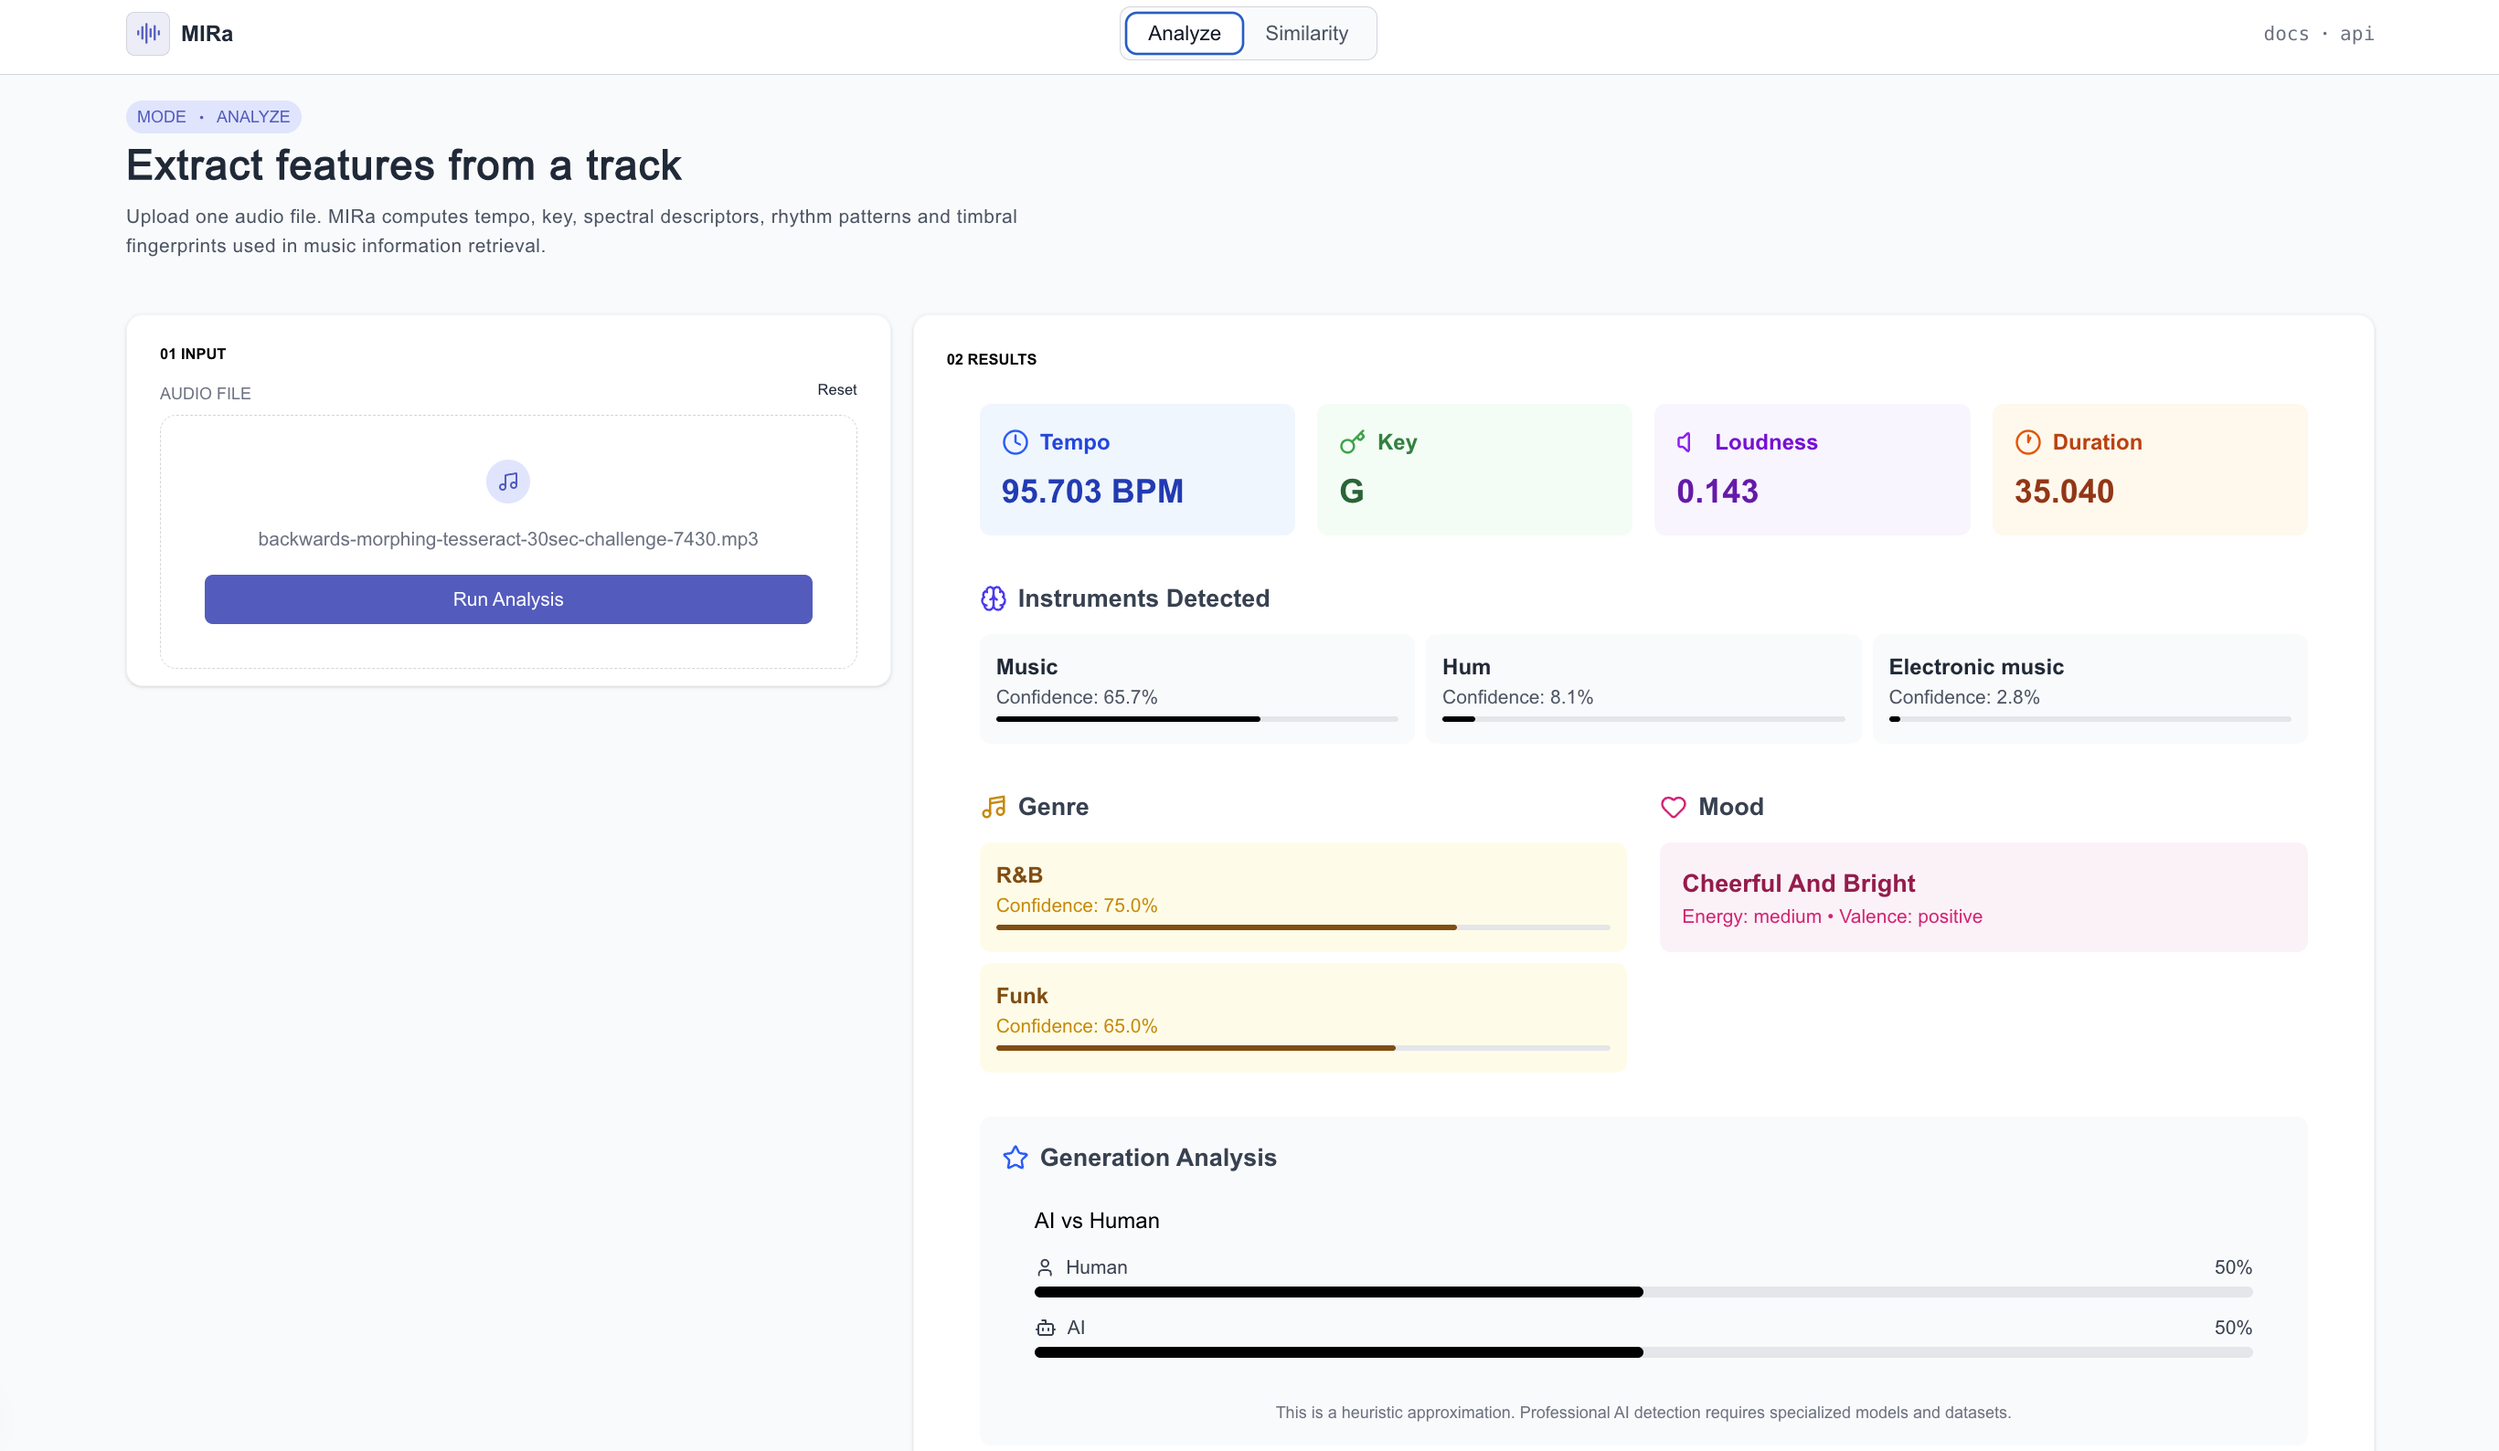
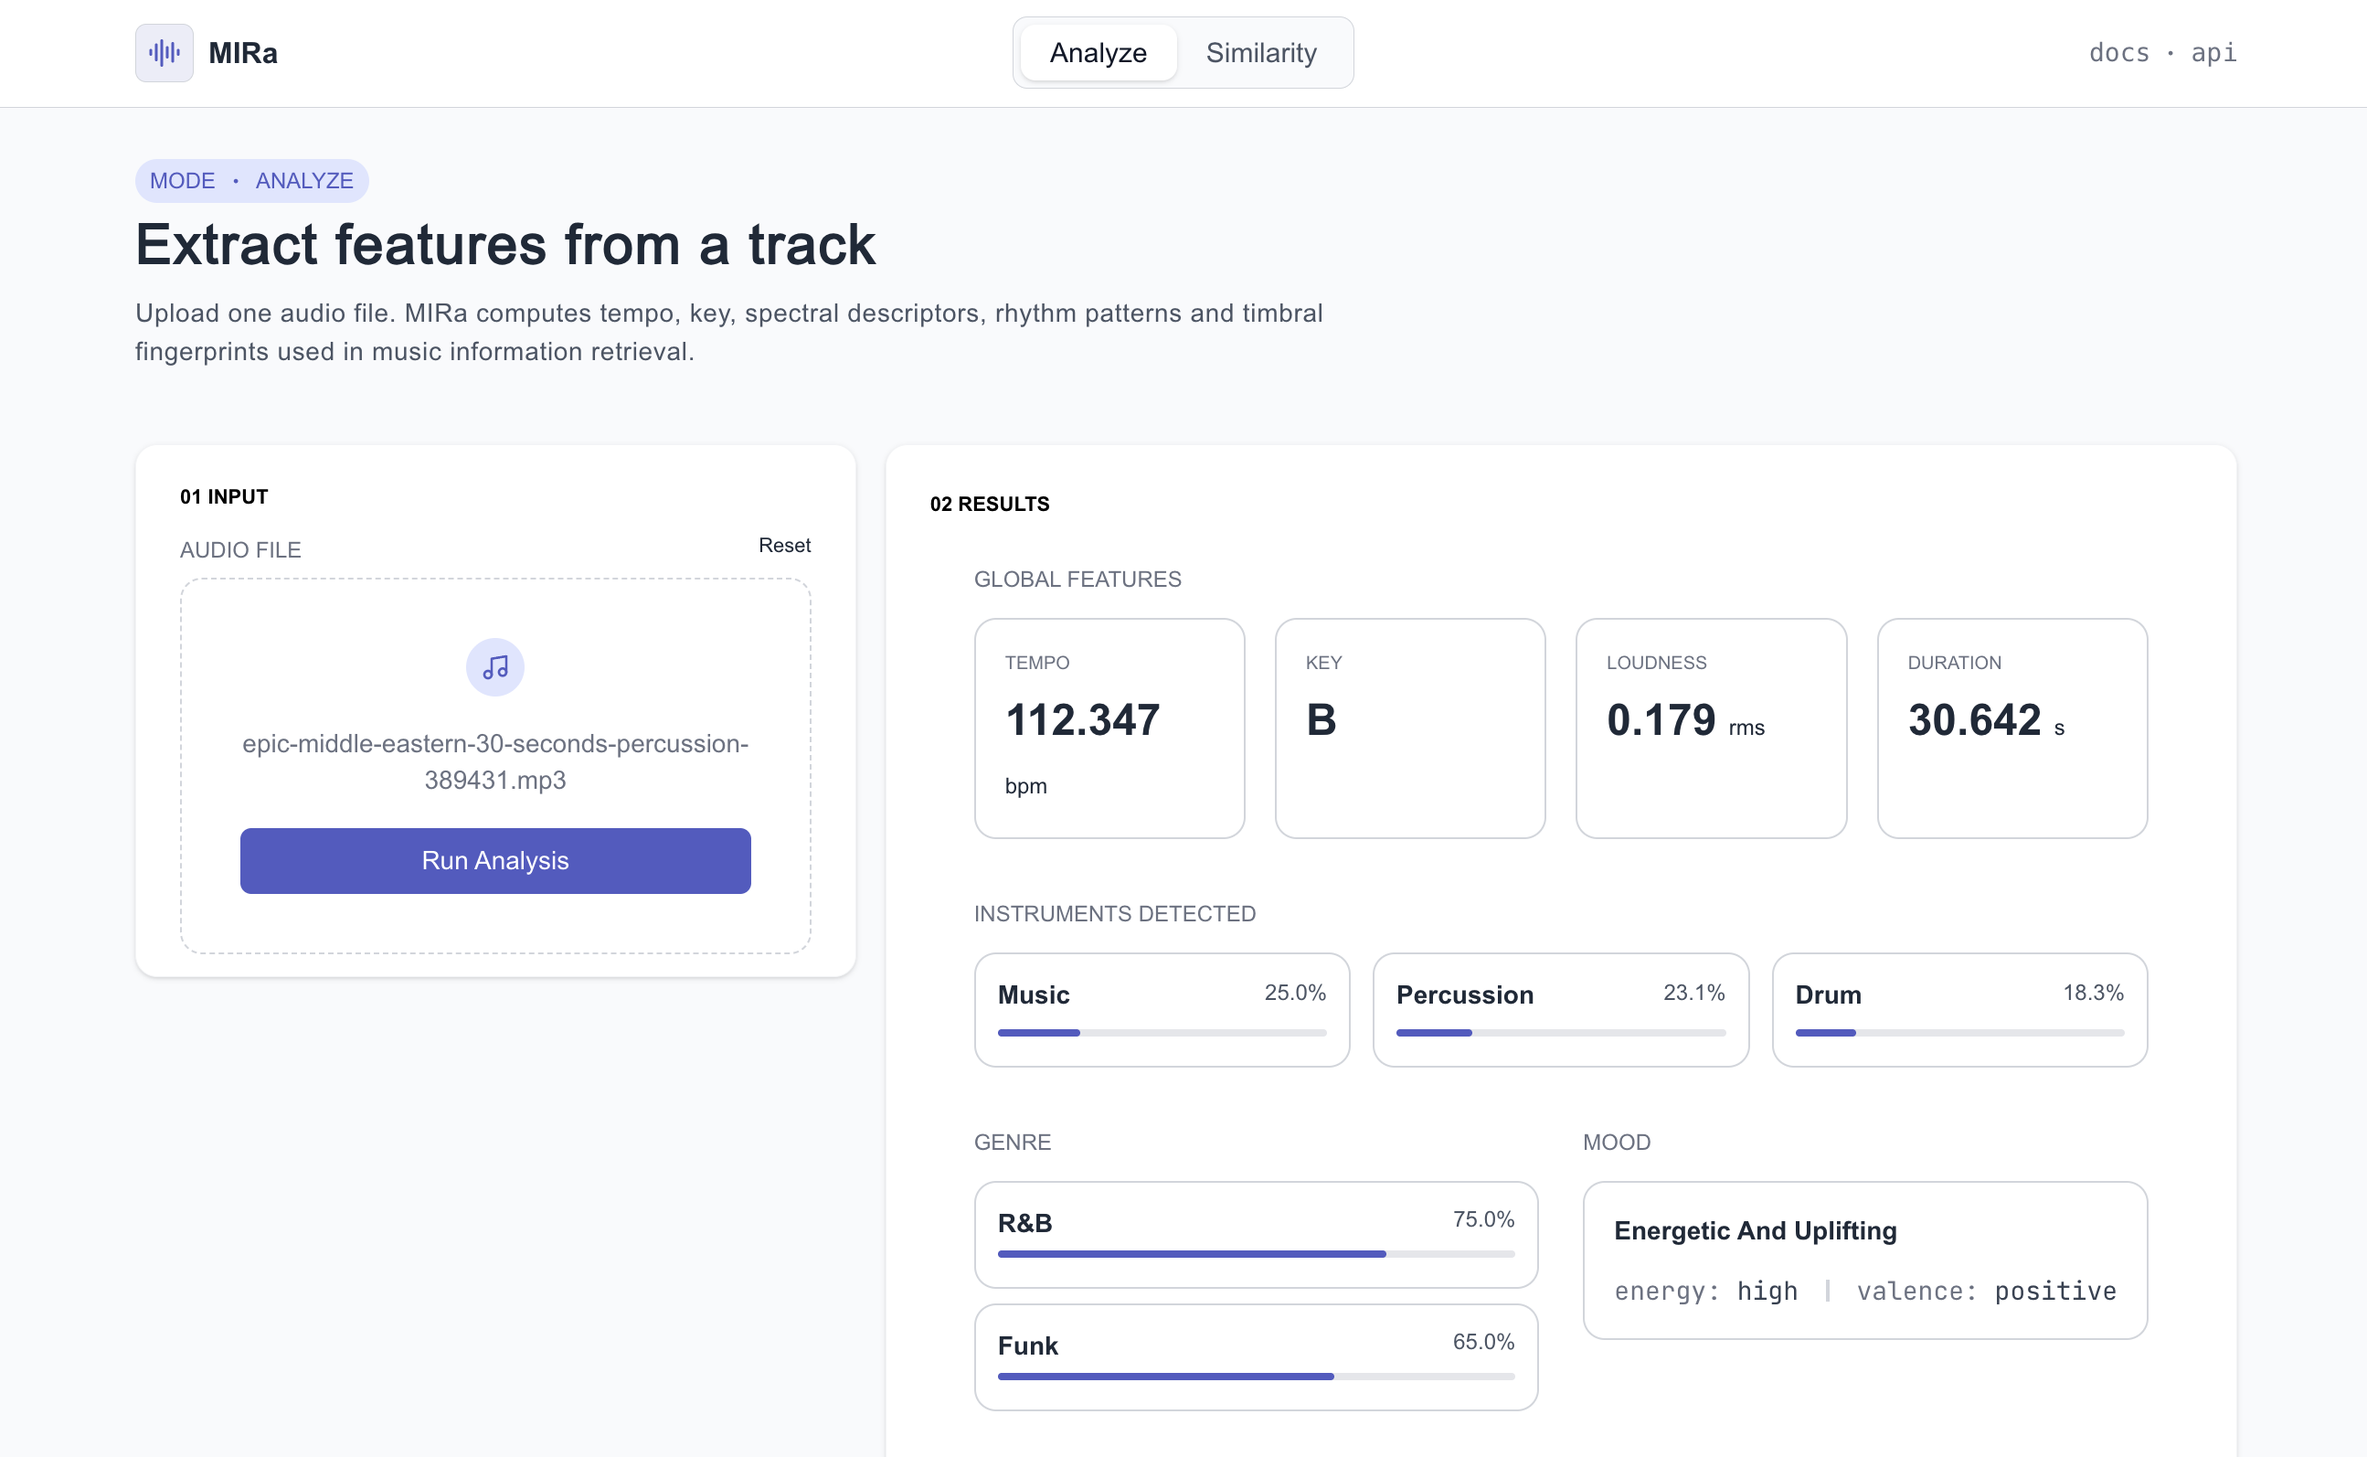
update ui for feature analysis

diff --git a/frontend/src/components/AnalysisResult.js b/frontend/src/components/AnalysisResult.js
@@ -1,76 +1,69 @@
 'use client';
 
-import { Music, Clock, Key, Volume, Brain, Heart, Star, Clock1, Music4, User, Bot } from 'lucide-react';
-import GeneralAnalysis from './GeneralAnalysis';
 
 const AnalysisResults = ({ data }) => {
-  const { basic_analysis, ai_analysis, generation_analysis } = data;
+  const { basic_analysis, ai_analysis } = data;
 
   return (
     <div className="bg-white rounded-xl p-6">
-      {/* <div>
-        <GeneralAnalysis />
-      </div> */}
-
+  
       {/* Basic Analysis */}
+      <p className='uppercase text-gray-500 font-light text-[12px] mb-3'>Global features</p>
       <div className="grid grid-cols-1 md:grid-cols-4 gap-4 mb-8">
-        <div className="bg-blue-50 rounded-lg p-4">
+        <div className="rounded-xl border border-gray-300 p-4">
           <div className="flex items-center mb-2">
-            <Clock className="w-5 h-5 text-blue-600 mr-2" />
-            <span className="font-semibold text-blue-700">Tempo</span>
+            <span className="uppercase text-gray-500 font-light text-[10px]">Tempo</span>
           </div>
-          <p className="text-2xl font-bold text-blue-800">
-            {basic_analysis.tempo_bpm.toFixed(3)} BPM
+          <p className="text-2xl font-bold text-gray-800">
+            {basic_analysis.tempo_bpm.toFixed(3)} <span className='text-xs font-light'>bpm</span>
           </p>
         </div>
 
-        <div className="bg-green-50 rounded-lg p-4">
+        <div className="rounded-xl border border-gray-300 p-4">
           <div className="flex items-center mb-2">
-            <Key className="w-5 h-5 text-green-600 mr-2" />
-            <span className="font-semibold text-green-700">Key</span>
+            <span className="uppercase text-gray-500 font-light text-[10px]">Key</span>
           </div>
-          <p className="text-2xl font-bold text-green-800">
+          <p className="text-2xl font-bold text-gray-800">
             {basic_analysis.key}
           </p>
         </div>
 
-        <div className="bg-purple-50 rounded-lg p-4">
+        <div className="rounded-xl border border-gray-300 p-4">
           <div className="flex items-center mb-2">
-            <Volume className="w-5 h-5 text-purple-600 mr-2" />
-            <span className="font-semibold text-purple-700">Loudness</span>
+            <span className="uppercase text-gray-500 font-light text-[10px]">Loudness</span>
           </div>
-          <p className="text-2xl font-bold text-purple-800">
-            {basic_analysis.average_loudness.toFixed(3)}
+          <p className="text-2xl font-bold text-gray-800">
+            {basic_analysis.average_loudness.toFixed(3)} <span className='text-xs font-light'>rms</span>
           </p>
         </div>
 
-        <div className="bg-orange-50 rounded-lg p-4">
+        <div className="rounded-xl border border-gray-300 p-4">
           <div className="flex items-center mb-2">
-            <Clock1 className="w-5 h-5 text-orange-600 mr-2" />
-            <span className="font-semibold text-orange-700">Duration</span>
+            <span className="uppercase text-gray-500 font-light text-[10px]">Duration</span>
           </div>
-          <p className="text-2xl font-bold text-orange-800">
-            {basic_analysis.duration_seconds.toFixed(3)}
+          <p className="text-2xl font-bold text-gray-800">
+            {basic_analysis.duration_seconds.toFixed(3)} <span className='text-xs font-light'>s</span>
           </p>
         </div>
       </div>
 
       {/* Instruments */}
       <div className="mb-8">
-        <h3 className="text-lg font-semibold text-gray-700 mb-3 flex items-center">
-          <Brain className="w-5 h-5 mr-2 text-indigo-600" />
+        <p className="uppercase text-gray-500 font-light text-[12px] mb-3">
           Instruments Detected
-        </h3>
-        <div className="grid grid-cols-1 sm:grid-cols-2 lg:grid-cols-3 gap-2">
+        </p>
+        <div className="grid grid-cols-1 sm:grid-cols-2 lg:grid-cols-3 gap-3">
           {ai_analysis.instruments.slice(0, 6).map((inst, index) => (
-            <div key={index} className="bg-gray-50 rounded-lg p-3">
-              <p className="font-semibold text-gray-800">{inst.instrument}</p>
-              <p className="text-sm text-gray-600">
-                Confidence: {(inst.confidence * 100).toFixed(1)}%
-              </p>
+            <div key={index} className="rounded-xl border border-gray-300 p-3 flex flex-col gap-1">
+              <div className='flex justify-between'>
+                <p className="font-semibold text-gray-800 text-[14px]">{inst.instrument}</p>
+                <p className="text-[12px] text-gray-600">
+                  {(inst.confidence * 100).toFixed(1)}%
+                </p>
+              </div>
               <div className="w-full bg-gray-200 rounded-full h-1 my-1">
                 <div
-                    className="bg-black h-1 rounded-full"
+                    className="bg-[#515bc3] h-1 rounded-full"
                     style={{ width: `${(inst.confidence * 100).toFixed(1)}%` }}
                 ></div>
               </div>
@@ -80,22 +73,23 @@ const AnalysisResults = ({ data }) => {
       </div>
 
       {/* Genre & Mood */}
-      <div className="grid grid-cols-1 md:grid-cols-2 gap-6 mb-8">
+      <div className="grid grid-cols-1 md:grid-cols-2 gap-6">
         <div>
-          <h3 className="text-lg font-semibold text-gray-700 mb-3 flex items-center">
-            <Music4 className="w-5 h-5 mr-2 text-yellow-600"/>
+          <p className="uppercase text-gray-500 font-light text-[12px] mb-3">
             Genre
-          </h3>
+          </p>
           <div className="space-y-2">
             {ai_analysis.genres.map((genre, index) => (
-              <div key={index} className="bg-yellow-50 rounded-lg p-3">
-                <p className="font-semibold text-yellow-800">{genre.genre}</p>
-                <p className="text-sm text-yellow-600">
-                  Confidence: {(genre.confidence * 100).toFixed(1)}%
-                </p>
+              <div key={index} className="rounded-xl border border-gray-300 p-3">
+                <div className='flex justify-between'>
+                  <p className="font-semibold text-gray-800 text-[14px]">{genre.genre}</p>
+                  <p className="text-xs text-gray-600">
+                  {(genre.confidence * 100).toFixed(1)}%
+                  </p>
+                </div>
                 <div className="w-full bg-gray-200 rounded-full h-1 my-1">
                 <div
-                    className="bg-yellow-800 h-1 rounded-full"
+                    className="bg-[#515bc3] h-1 rounded-full"
                     style={{ width: `${(genre.confidence * 100).toFixed(1)}%` }}
                 ></div>
                 </div>
@@ -105,64 +99,28 @@ const AnalysisResults = ({ data }) => {
         </div>
 
         <div>
-          <h3 className="text-lg font-semibold text-gray-700 mb-3 flex items-center">
-            <Heart className="w-5 h-5 mr-2 text-pink-600" />
+          <p className="uppercase text-gray-500 font-light text-[12px] mb-3">
             Mood
-          </h3>
-          <div className="bg-pink-50 rounded-lg p-4">
-            <p className="text-lg font-semibold text-pink-800 capitalize">
+          </p>
+          <div className="rounded-xl border border-gray-300 p-4">
+            <p className="font-semibold text-gray-800 text-[14px] capitalize mb-3">
               {ai_analysis.mood.primary_mood}
             </p>
-            <p className="text-sm text-pink-600">
-              Energy: {ai_analysis.mood.energy_level} • Valence: {ai_analysis.mood.emotional_valence}
-            </p>
+            <div className='flex justify-between items-center gap-3'>
+              <div>
+                <p className="text-sm text-gray-500 [font-family:var(--font-jetbrains-mono)]">
+                  energy: <span className='text-gray-700'> {ai_analysis.mood.energy_level} </span>
+                </p>
+              </div>
+              <div className='h-3 w-0 border border-gray-300'></div>
+              <div>
+                <p className="text-sm text-gray-500 [font-family:var(--font-jetbrains-mono)]">
+                  valence: <span className='text-gray-700'>{ai_analysis.mood.emotional_valence}</span>
+                </p>
+              </div>
+            </div>
           </div>
         </div>
-      </div>
-
-      {/* AI Generation Analysis */}
-      <div className="bg-gray-50 rounded-lg p-4">
-        <h3 className="text-lg font-semibold text-gray-700 mb-3 flex items-center">
-          <Star className="w-5 h-5 mr-2 text-blue-600" />
-          Generation Analysis
-        </h3>
-        <div className="flex flex-col sm:flex-row justify-between gap-6 px-6 py-2">
-            <div className="flex-1">
-            <h3 className="font-medium mb-3">AI vs Human</h3>
-
-            <div className="mb-3">
-                <p className="text-sm font-medium text-gray-700 flex justify-between mb-1">
-                <span className='flex gap-2 items-center'><User size={'15px'}/> Human</span>
-                <span>{(generation_analysis.human_generation_probability * 100).toFixed(0)}%</span>
-                </p>
-                <div className="w-full bg-gray-200 rounded-full h-2">
-                <div
-                    className="bg-black h-2 rounded-full"
-                    style={{ width: `${(generation_analysis.human_generation_probability * 100).toFixed(0)}%` }}
-                ></div>
-                </div>
-            </div>
-
-            <div className="mb-3">
-                <p className="text-sm font-medium text-gray-700 flex justify-between mb-1">
-                <span className='flex gap-2 items-center'><Bot size={'16px'}/> AI</span>
-                <span>{(generation_analysis.ai_generation_probability * 100).toFixed(0)}%</span>
-                </p>
-                <div className="w-full bg-gray-200 rounded-full h-2">
-                <div
-                    className="bg-black h-2 rounded-full"
-                    style={{ width: `${(generation_analysis.ai_generation_probability * 100).toFixed(0)}%` }}
-                ></div>
-                </div>
-            </div>
-            {/* <div className="mt-4 p-3 bg-green-50 rounded-md text-sm text-gray-700">
-                <span className="font-semibold">Features Analysed:</span> {generation_analysis.features_analyzed}
-            </div> */}
-            </div>
-        </div>
-        <p className="text-xs text-gray-500 mt-3 text-center">
-          {generation_analysis.disclaimer}
-        </p>
       </div>
     </div>
   );

diff --git a/README.md b/README.md
@@ -43,7 +43,6 @@ The project is motivated by core MIR research tasks — automatic annotation, ge
 | Instrument Detection | Hugging Face audio classifier | Label + confidence % |
 | Genre Classification | Transformer-based model | Top genres + confidence % |
 | Mood / Affect | Valence-arousal heuristics | Label, energy, valence |
-| AI vs Human Detection | Experimental spectral heuristic | Human/AI probability % |
 
 ### Similarity
 | Feature Vector | Representation | Weight |
@@ -121,7 +120,7 @@ python -m venv venv && source venv/bin/activate
 pip install -r requirements.txt
 # FFmpeg required: brew install ffmpeg (macOS) or apt install ffmpeg (Linux)
 uvicorn main:app --reload
-# API docs at http://localhost:7860/docs
+# API docs at http://localhost:8000/docs
 ```
 
 **Frontend**
@@ -136,7 +135,6 @@ npm run dev
 
 ## Planned Extensions
 
-- **Music similarity** — cosine distance over MFCC/chroma vectors for track comparison
 - **Automatic annotation evaluation** — benchmark against GTZAN dataset with accuracy reporting
 - **Waveform & spectrogram visualization** — display audio features visually in the frontend using WaveSurfer.js
 - **Recommendation prototype** — nearest-neighbour search over a feature vector index
@@ -148,6 +146,9 @@ npm run dev
 - Tzanetakis, G. & Cook, P. (2002). Musical genre classification of audio signals. *IEEE Transactions on Speech and Audio Processing.*
 - McFee, B. et al. (2015). librosa: Audio and music signal analysis in Python. *Proceedings of the 14th Python in Science Conference.*
 - Défossez, A. et al. (2022). High fidelity neural audio compression. *arXiv:2210.13438.*
+- Gardner, W. & Martin, K. (1995). HRTF measurements of a KEMAR dummy-head microphone. *MIT Media Lab Technical Report.* — [MIT KEMAR Dataset](http://sound.media.mit.edu/resources/KEMAR.html)
+- Wefers, F. (2015). Partitioned convolution algorithms for real-time auralization. *Doctoral dissertation, RWTH Aachen University.* — Partitioned FFT-based HRTF processing
+- Møller, H. (1992). Fundamentals of binaural technology. *Applied Acoustics, 36(3-4), 171-218.* — Binaural rendering theory
 
 ---
 
